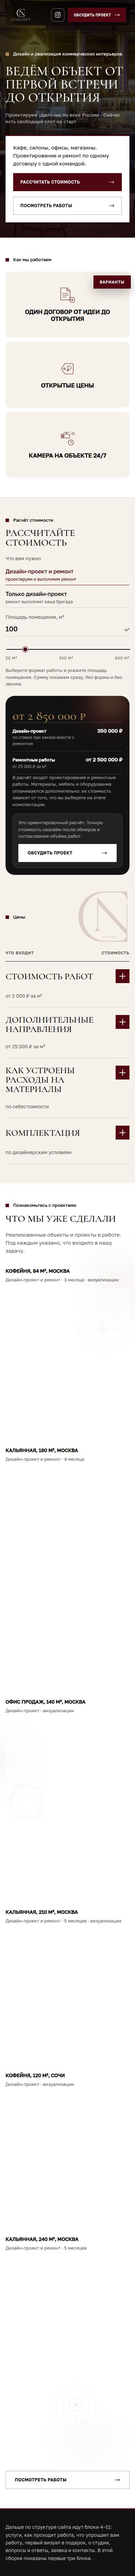
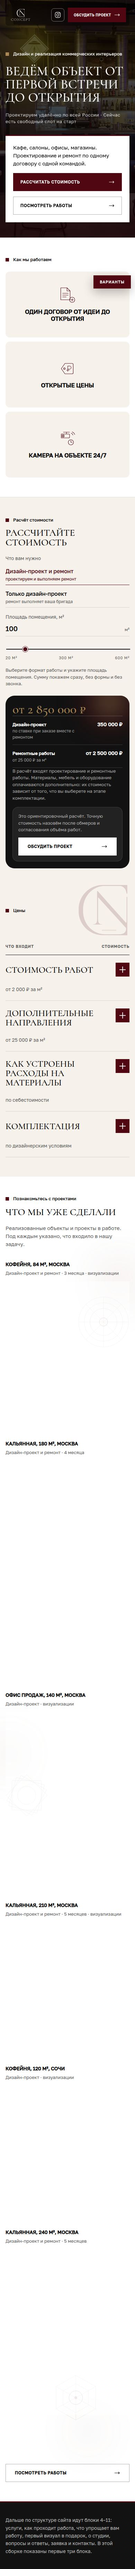
Плашка расчёта снова простой скруглённый прямоугольник
Убран вырез в левом верхнем углу: сама фигура, два вогнутых сопряжения,
скрытие выреза на мобилке и верхний отступ первой строки результата,
который был нужен только чтобы не залезать под вырез. Тёмная плашка,
скругление 26px и свечение остались как были.

Claude-Session: https://claude.ai/code/session_012qg78my7HbumokZeYQ7QZc

diff --git a/assets/css/krasnov.css b/assets/css/krasnov.css
@@ -403,7 +403,7 @@ ul{ padding:0; list-style:none }
 .calc__scale span:last-child{ text-align:right }
 .calc__fields .note{ margin-top:clamp(18px,2vw,26px) }
 
-/* Тёмная фигура со срезанным углом и свечением */
+/* Тёмная плашка со скруглёнными углами и свечением */
 .calc__panel{
   position:relative; isolation:isolate;
   background:var(--near); color:#fff;
@@ -418,28 +418,6 @@ ul{ padding:0; list-style:none }
   background:radial-gradient(circle, rgba(171,135,86,.55) 0%, rgba(80,7,17,.35) 45%, transparent 70%);
   filter:blur(28px);
 }
-/* Вырез в левом верхнем углу: сам вырез и два вогнутых сопряжения */
-.calc__panel > .calc__cut{
-  --cut-w:clamp(84px,9vw,132px);
-  --cut-h:clamp(30px,3vw,44px);
-  --cut-r:18px;
-  position:absolute; left:0; top:0; z-index:2;
-  width:var(--cut-w); height:var(--cut-h);
-  background:var(--sand);
-  border-top-left-radius:26px;
-}
-.calc__panel > .calc__cut::before,
-.calc__panel > .calc__cut::after{
-  content:''; position:absolute;
-  width:var(--cut-r); height:var(--cut-r);
-  background:var(--sand);
-  border-bottom-right-radius:var(--cut-r);
-}
-.calc__panel > .calc__cut::before{ left:100%; top:0 }
-.calc__panel > .calc__cut::after{ left:0; top:100% }
-.calc__panel > *{ position:relative }
-/* Первая строка результата не должна залезать под вырез */
-.calc__panel > [id^="calc-result"]{ padding-top:clamp(18px,1.8vw,26px) }
 .calc__total{
   font-family:var(--display); font-weight:500;
   font-size:clamp(38px,4.2vw,62px); line-height:1; letter-spacing:.005em;
@@ -695,7 +673,6 @@ ul{ padding:0; list-style:none }
   .usp__card:focus-within .usp__desc,
   .usp__card.is-open .usp__desc{ opacity:1; max-height:260px; margin-top:18px; transform:none }
   .calc__grid{ grid-template-columns:1fr }
-  .calc__panel > .calc__cut{ display:none }
 
   .works__grid{ display:block }
   /* Сбрасываем разножку сетки десктопа и разводим объекты по вертикали,

diff --git a/index.html b/index.html
@@ -263,8 +263,6 @@
 
       <!-- Правая половина: тёмная фигура с расчётом -->
       <div class="calc__panel">
-        <span class="calc__cut" aria-hidden="true"></span>
-
         <!-- Результат при выборе «дизайн-проект и ремонт» -->
         <div id="calc-result-full" aria-live="polite">
           <div class="calc__total" id="sum-total">от 2 850 000 ₽</div>
